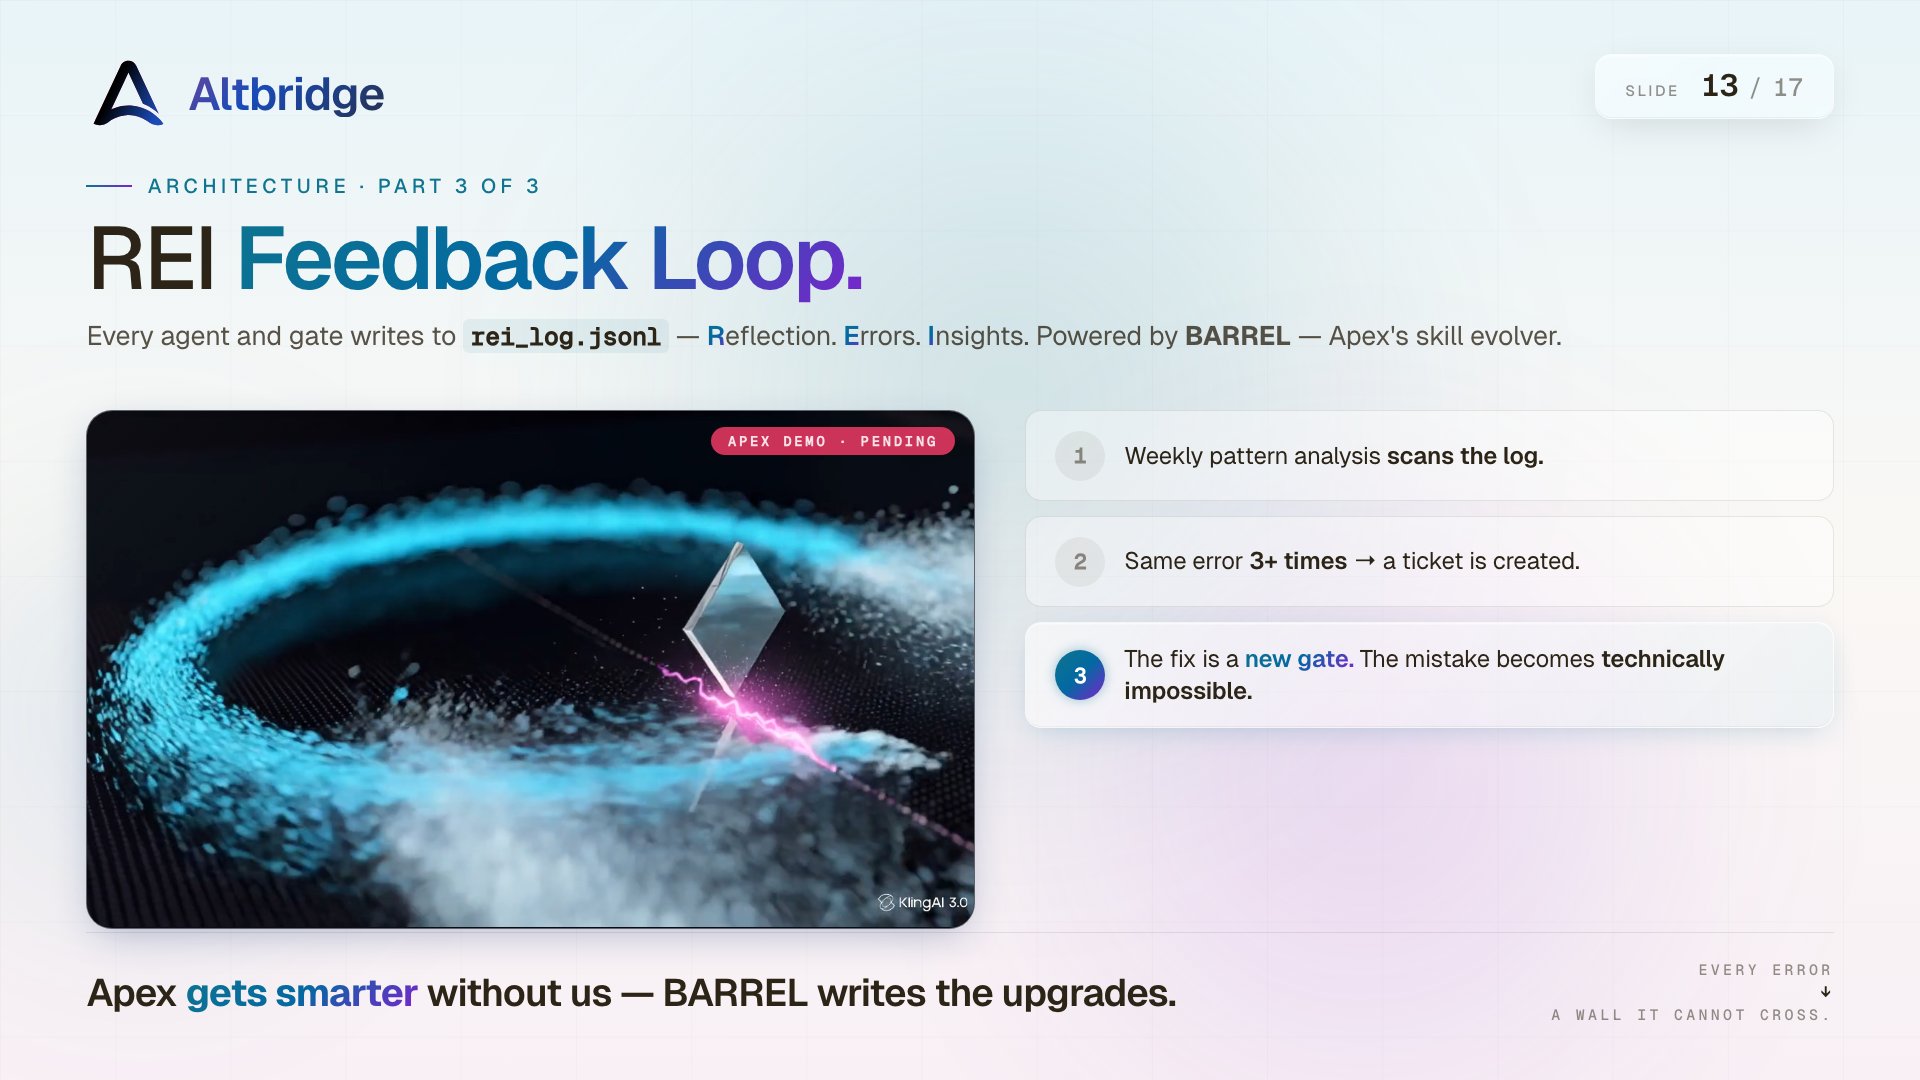
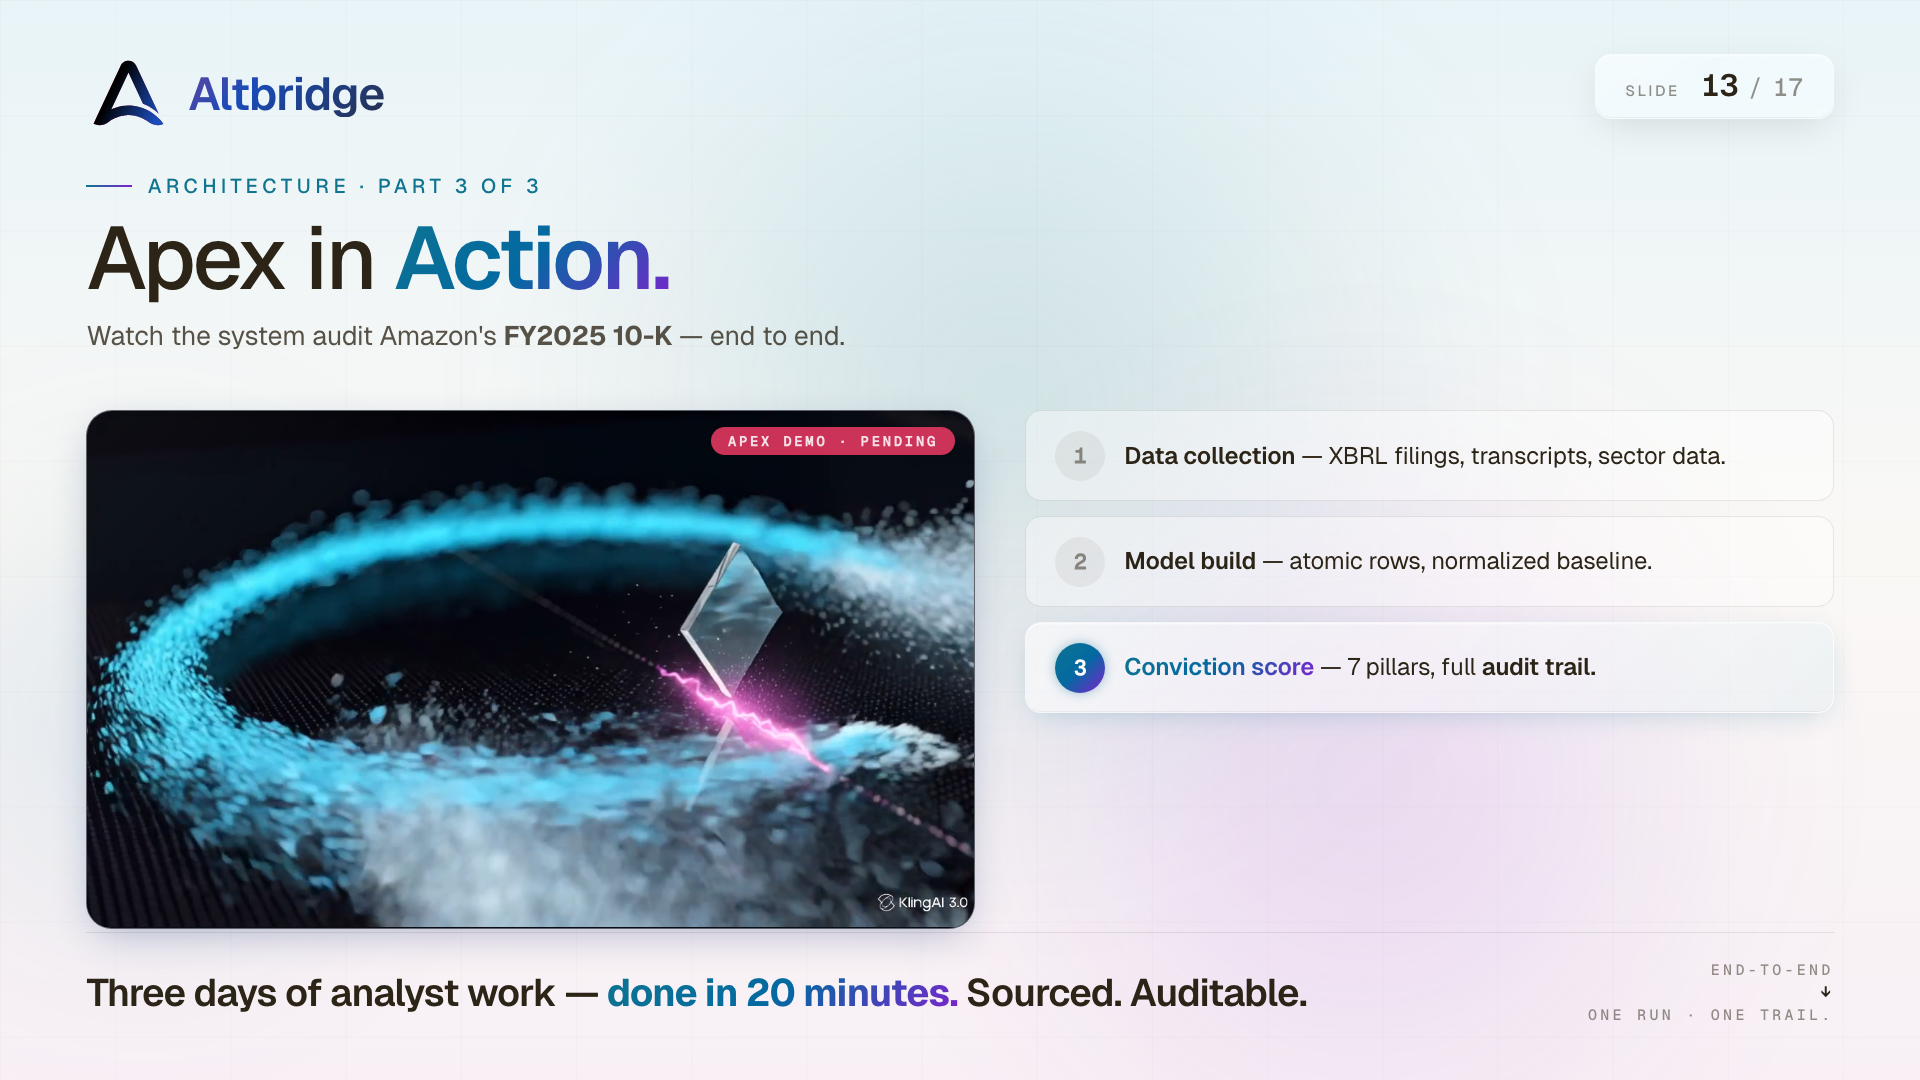
Slide 13: remove BARREL references (not yet implemented)
BARREL was an aspirational self-improvement layer (Skill Evolver) but
not yet built or integrated. Per memory rule on overclaim avoidance,
removing forward-looking claims from LP-facing materials.

Slide 13 refactored from 'How Apex gets smarter (BARREL + demo)' to
'Apex in Action':
- Title: 'Apex in Action.'
- Lead: 'Watch the system audit Amazon's FY2025 10-K — end to end.'
- 3 steps now match Apex 4-phase workflow (data collection / model
  build / conviction score)
- Closing: 'Three days of analyst work — done in 20 minutes.
  Sourced. Auditable.'

Speech updated in both _speeches.md (RU+EN) and _speeches_en.md.
Now closes the AMZN narrative arc set up on slide 5: '154x jump
on private equity? Caught. Normalized to $70.4B.'

BARREL grep verified: no remaining mentions in any slide HTML or
speech file.

diff --git a/conference-deck/mockups/slide13_v5.html b/conference-deck/mockups/slide13_v5.html
@@ -275,8 +275,8 @@
 
   <div class="header">
     <div class="kicker">Architecture · Part 3 of 3</div>
-    <h1 class="title">REI <span class="em">Feedback Loop.</span></h1>
-    <div class="lead">Every agent and gate writes to <span class="mono">rei_log.jsonl</span> — <span class="rei">R</span>eflection. <span class="rei">E</span>rrors. <span class="rei">I</span>nsights. Powered by <strong>BARREL</strong> — Apex's skill evolver.</div>
+    <h1 class="title">Apex in <span class="em">Action.</span></h1>
+    <div class="lead">Watch the system audit Amazon's <strong>FY2025 10-K</strong> — end to end.</div>
   </div>
 
   <div class="layout">
@@ -293,25 +293,25 @@
     <div class="steps">
       <div class="step">
         <div class="step-num">1</div>
-        <div class="step-text">Weekly pattern analysis <strong>scans the log.</strong></div>
+        <div class="step-text"><strong>Data collection</strong> — XBRL filings, transcripts, sector data.</div>
       </div>
       <div class="step">
         <div class="step-num">2</div>
-        <div class="step-text">Same error <strong>3+ times</strong> → a ticket is created.</div>
+        <div class="step-text"><strong>Model build</strong> — atomic rows, normalized baseline.</div>
       </div>
       <div class="step fix">
         <div class="step-num">3</div>
-        <div class="step-text">The fix is a <span class="em">new gate.</span> The mistake becomes <strong>technically impossible.</strong></div>
+        <div class="step-text"><span class="em">Conviction score</span> — 7 pillars, full <strong>audit trail.</strong></div>
       </div>
     </div>
   </div>
 
   <div class="closing">
-    <div class="closing-text">Apex <span class="em">gets smarter</span> without us — BARREL writes the upgrades.</div>
+    <div class="closing-text">Three days of analyst work — <span class="em">done in 20 minutes.</span> Sourced. Auditable.</div>
     <div class="closing-meta">
-      Every error<br>
+      End-to-end<br>
       <strong>↓</strong><br>
-      A wall it cannot cross.
+      One run · one trail.
     </div>
   </div>
 </div>

diff --git a/conference-deck/_speeches.md b/conference-deck/_speeches.md
@@ -693,53 +693,52 @@ preserved across both renderings to keep delivery rhythm aligned.
 
 ---
 
-## Slide 13 — How Apex gets smarter (BARREL + Apex demo)
+## Slide 13 — Apex in Action (AMZN demo)
 
-*[~40-50 seconds. Self-improvement layer. Apex demo plays in video panel.]*
+*[~40-50 seconds. Capability demo. Apex demo video plays in panel showing AMZN audit.]*
 
-> **EN:** Apex catches errors. But what makes Apex **get smarter**?
+> **EN:** Now watch the system run. This is **Apex** — auditing Amazon's FY2025 10-K, end to end.
 >
-> **RU:** Apex ловит ошибки. Но что заставляет Apex **становиться умнее**?
+> **RU:** Теперь посмотрите систему в действии. Это **Apex** — аудитирует 10-K Amazon за FY2025, от начала до конца.
 
-> **EN:** Every agent. Every gate. Every check — writes to a log. Reflection. Errors. Insights.
+> **EN:** First — **data collection**. The system pulls XBRL filings from SEC, ten years of statements, forty earnings call transcripts, sector data. Public sources. Auditable.
 >
-> **RU:** Каждый agent. Каждый gate. Каждая проверка — пишет в log. Reflection. Errors. Insights.
+> **RU:** Сначала — **data collection**. Система забирает XBRL filings из SEC, десять лет statements, сорок earnings call транскриптов, sector data. Публичные источники. Аудируемые.
 
-> **EN:** Then **BARREL** — Apex's learning engine — reads the log. Weekly. It looks for patterns.
+> **EN:** Second — **model build**. The 10-K is decomposed into atomic rows. Each row has a value, a source, a validator. Normalization runs. The 154-times jump on private equity? **Caught.** Normalized net income drops to 70.4 billion.
 >
-> **RU:** Затем **BARREL** — learning engine от Apex — читает log. Еженедельно. Ищет паттерны.
+> **RU:** Второе — **model build**. 10-K разлагается на атомарные строки. У каждой — значение, источник, validator. Нормализация запускается. Тот 154-кратный скачок по private equity? **Поймано.** Нормализованная чистая прибыль падает до 70.4 миллиарда.
 
-> **EN:** When the same error appears **three or more times**, BARREL writes a new gate. The mistake becomes — technically — **impossible**.
+> **EN:** Third — **conviction score**. Seven pillars. Full audit trail. Every cell traceable to a 10-K page.
 >
-> **RU:** Когда та же ошибка появляется **три или больше раз**, BARREL пишет новый gate. Ошибка становится — технически — **невозможной**.
+> **RU:** Третье — **conviction score**. Семь пилларов. Полный audit trail. Каждая ячейка прослеживается до страницы 10-K.
 
-> **EN:** This is how Apex gets smarter without us. Every error becomes a **wall the system cannot cross again**.
+> **EN:** Three days of analyst work — **done in twenty minutes**. Sourced. Auditable. **Reproducible.**
 >
-> **RU:** Так Apex становится умнее без нас. Каждая ошибка становится **стеной, которую система больше не может пересечь**.
-
-> **EN:** Watch the demo on the screen. This is the system in action.
->
-> **RU:** Посмотрите демо на экране. Это система в действии.
+> **RU:** Три дня работы аналитика — **сделано за двадцать минут**. С источниками. Аудируемо. **Воспроизводимо.**
 
 *[Click → slide 14]*
 
 ### Stage directions
-- "what makes Apex **get smarter**?" — rhetorical pause
-- Listing "agent / gate / check" — three beats
-- "**three or more times**" — slow on number
-- "wall the system cannot cross again" — quiet, then gesture to demo on screen
-- Final line — gesture to video, let it speak
+- "Watch the system run" — gesture to video panel
+- "**data collection · model build · conviction score**" — three beats matching the three steps on slide
+- "**Caught.**" — short, deliberate; this is the AMZN-arc closing moment
+- "**done in twenty minutes**" — slow on number; the punch
+- "Sourced. Auditable. Reproducible." — three short beats, forward-lean → click
 
 ### Vocabulary to memorize
 | English | Russian |
 |---|---|
-| **log** | журнал (записи событий) |
-| **learning engine** | обучающий движок |
-| **pattern** | паттерн (повторяющийся шаблон) |
-| **wall** | стена (метафора для ограничения) |
+| **end to end** | от начала до конца |
+| **audit trail** | след аудита (полная история операций) |
+| **atomic row** | атомарная строка (минимальная единица данных) |
+| **validator** | валидатор (проверяющая функция) |
+| **traceable** | прослеживаемый (с источником) |
+| **reproducible** | воспроизводимый |
 
 ### ⚠ Note for Assyl
-- Speech assumes the Apex demo video is playing in the panel. The current placeholder badge "APEX DEMO · PENDING" is visible until the video file is dropped in. When recording, aim for ~60 seconds, looping, no audio.
+- Speech assumes the Apex demo video is playing in the panel showing AMZN workflow (4 phases ending with conviction). The placeholder badge "APEX DEMO · PENDING" is visible until video is dropped in. Target: ~60 sec, looping, no audio.
+- This slide closes the AMZN narrative arc started on slide 5 (failure mode 3 set up the $7.71B catch problem; this slide shows Apex catching it).
 
 ---
 

diff --git a/conference-deck/_speeches_en.md b/conference-deck/_speeches_en.md
@@ -388,21 +388,19 @@ Three failures. **Three gates.**
 
 ---
 
-## Slide 13 — How Apex gets smarter (BARREL + Apex demo)
+## Slide 13 — Apex in Action (AMZN demo)
 
-*[~40-50 seconds. Self-improvement layer. Apex demo plays in video panel.]*
+*[~40-50 seconds. Capability demo. Apex demo video plays in panel showing AMZN audit.]*
 
-Apex catches errors. But what makes Apex **get smarter**?
+Now watch the system run. This is **Apex** — auditing Amazon's FY2025 10-K, end to end.
 
-Every agent. Every gate. Every check — writes to a log. Reflection. Errors. Insights.
+First — **data collection**. The system pulls XBRL filings from SEC, ten years of statements, forty earnings call transcripts, sector data. Public sources. Auditable.
 
-Then **BARREL** — Apex's learning engine — reads the log. Weekly. It looks for patterns.
+Second — **model build**. The 10-K is decomposed into atomic rows. Each row has a value, a source, a validator. Normalization runs. The 154-times jump on private equity? **Caught.** Normalized net income drops to 70.4 billion.
 
-When the same error appears **three or more times**, BARREL writes a new gate. The mistake becomes — technically — **impossible**.
+Third — **conviction score**. Seven pillars. Full audit trail. Every cell traceable to a 10-K page.
 
-This is how Apex gets smarter without us. Every error becomes a **wall the system cannot cross again**.
-
-Watch the demo on the screen. This is the system in action.
+Three days of analyst work — **done in twenty minutes**. Sourced. Auditable. **Reproducible.**
 
 *[Click → slide 14]*
 
